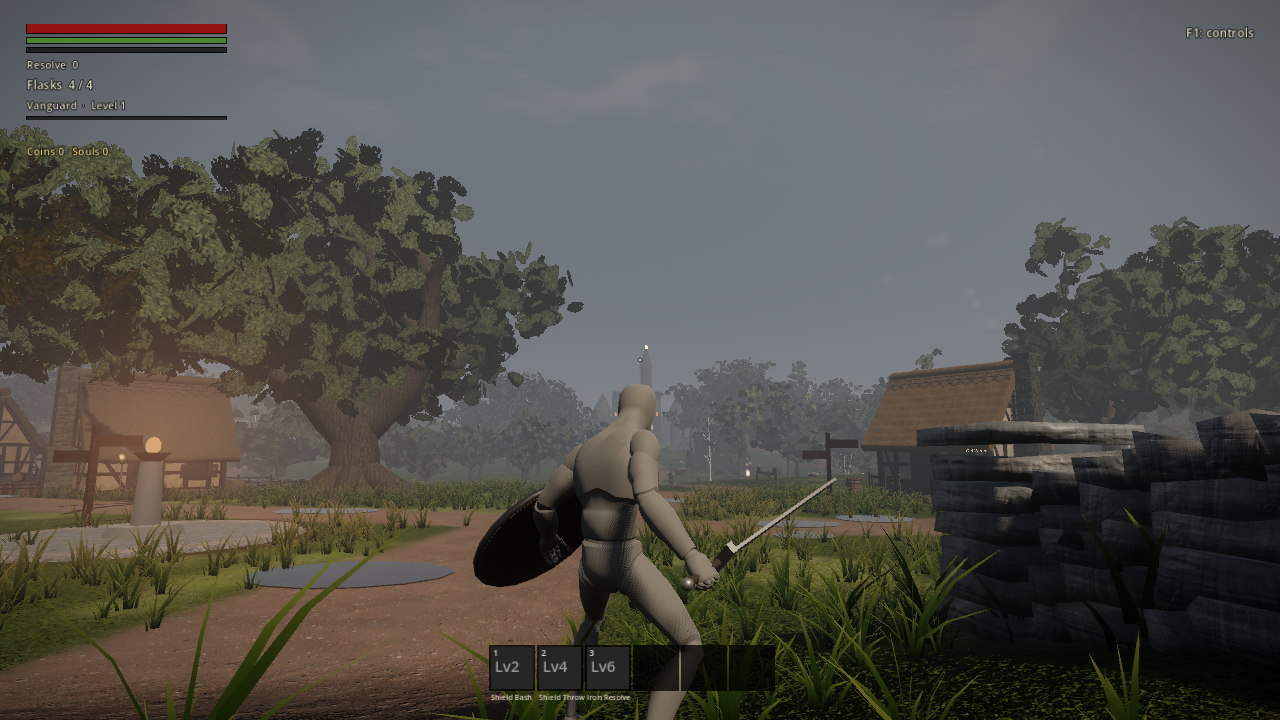
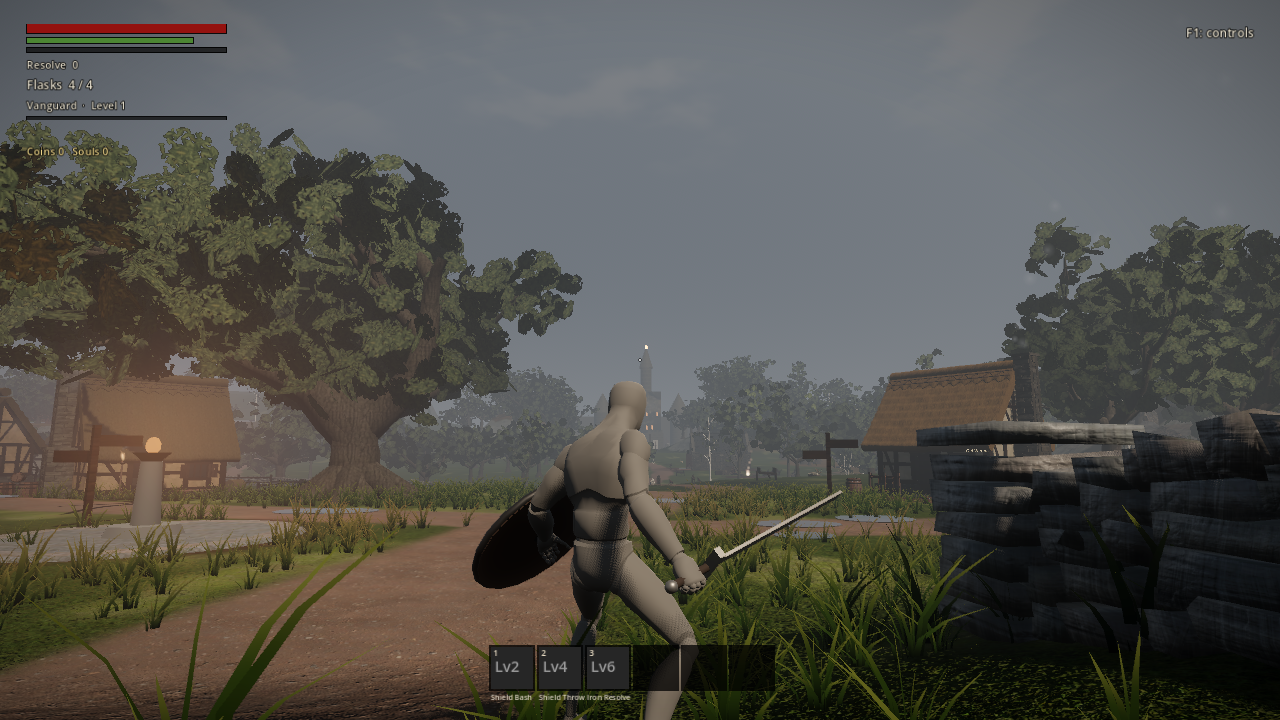
Greenwood stage 4: stepped limestone scarp with combes and scree, crag terraces, Knight's Gap knobs, rolling East Woods with dells, the brook, sunken lane to the chapel; lighter ancient oak leaves, brighter under-canopy light

diff --git a/GREENWOOD_OVERHAUL.md b/GREENWOOD_OVERHAUL.md
@@ -12,7 +12,8 @@
 | 1. Foundations | **Done (ground and rock).** Terrain shader: limestone graded to the palette with horizontal beds lining up across cliffs, warm sandstone bands (south scarp, crag skirt, gorge), dark mudstone on soil slopes, moss on ledges, leaf litter under the canopy (Poly Haven `forest_leaves_02`). Land script `ground_extra()` feeds it. Puddles and grass colour still to do (stage 6). |
 | 2. Tree library | **Done.** `game/world/tree_species.gd`: oak (8: young, mature, old), ancient oak (3), dead / stag-headed oak (4), beech (5), ash (5), birch (6, incl. clumps), yew (4); code-drawn bark and leaf textures; full detail to 80 m then a cheap far version. Gallery: `tools/preview_trees.gd`. |
 | 3. Forest composition | **Done.** Every fir gone. Land script `tree_kind()` picks species by place (beech in deep interiors, ash by water, birch at the quarry, hamlet, scree and edges, yew at the churchyard, barrow, scarp top and a pocket in the East Woods). Expected shares: oak 55% (incl. 2.5% dead), beech 18%, ash 12%, birch 8%, yew 7%. Landmarks: great oak on the green, hollow oak at the East Lane bend, ancient oak at Knight's Gap, stag-headed oak below the watchtower, churchyard and barrow yews. No trees within 5 m of an enemy spawn, the Gullet door or the ladder. Trunk colliders sized per tree. A first "canopy light" in `DayNight`: under the trees the ambient turns lifted green instead of black. |
-| 4-9 | Not started. |
+| 4. Terrain shaping | **Done.** In `tithelands_land.gd`: the west scarp is stepped (upper face, 2-4 m ledge, lower face) with a ragged brow, two combes bitten back into it (north of the quarry at z -152, south of the overlook at z 46) and a scree apron at its foot (kept clear of the quarry mouth); rock terraces on the crag's north-east face over the river; limestone knobs on the Knight's Gap hill shoulders (road untouched); rolling ground and three dells in the East Woods (barrow, raider farmstead and woods camps keep their ground); **the brook** from the east ridge past the crag into the river (carved bed, wadeable water ribbon built by `SculptedTerrain._brook()`, trees kept off it); a sunken lane from farmstead B up to the chapel (a new track). Rocks, boulders and cliff pieces keep 5 m off tracks. Placement audit unchanged from before (within a few cm); zone, camp and Gullet checks pass. Under-canopy light lifted further. Not done here: the dark scanned outcrop on the chapel ridge and the quarry corners (stage 5). |
+| 5-9 | Not started. |
 
 **Checks after stage 3:** `zone_check`, `camp_check`, `gullet_check` pass; placement audit shows no trees in or against buildings (the building flags it lists are unchanged from before). FPS at 1920x1080: 78 to 116 at the 10 spots (before: 81 to 128); zone load 8.1 s (before 6.6 s; trees are built at load, baking them to files is the fix if it matters). Pictures: `docs/greenwood_progress/`.
 

diff --git a/HANDOFF.md b/HANDOFF.md
@@ -13,7 +13,7 @@ KINGDOM (working title) is a dark fantasy co-op action RPG in Godot 4.7.2 (GDScr
 ## Where we are
 Phases 1-15 are built: movement, combat, multiplayer, three classes with talents, loot and death, the Tithelands (terrain, buildings, chapel and barrow, mill race, camp and raids, day/night), the bandit Gullet with Harl the Delver, audio, settings and rebinding, equipment, three subclasses. Art is a detailed environment with mannequin characters. **The milestone (3 friends clear the Tithelands and the Gullet) has not happened.** The next job is to stabilize, play and fix, not to add. All checks, including the 3-player check, passed on 2026-11-22.
 
-**Greenwood overhaul (branch `greenwood`, 2026-11-22):** the owner's Greenwood biome brief is being applied to the Tithelands; plan and progress in `GREENWOOD_OVERHAUL.md`. Stages 0-3 done (limestone/sandstone ground shader, five-species tree library, firs removed, landmark trees, canopy light). Next: stage 4, terrain shaping. Not merged to `main` yet.
+**Greenwood overhaul (branch `greenwood`, 2026-11-22):** the owner's Greenwood biome brief is being applied to the Tithelands; plan and progress in `GREENWOOD_OVERHAUL.md`. Stages 0-4 done (limestone/sandstone ground shader, five-species tree library, firs removed, landmark trees, canopy light, terrain shaping with the brook and the chapel lane). Next: stage 5, the quarry and rock kit. Not merged to `main` yet.
 
 ## Which file is which
 | File | Use |
